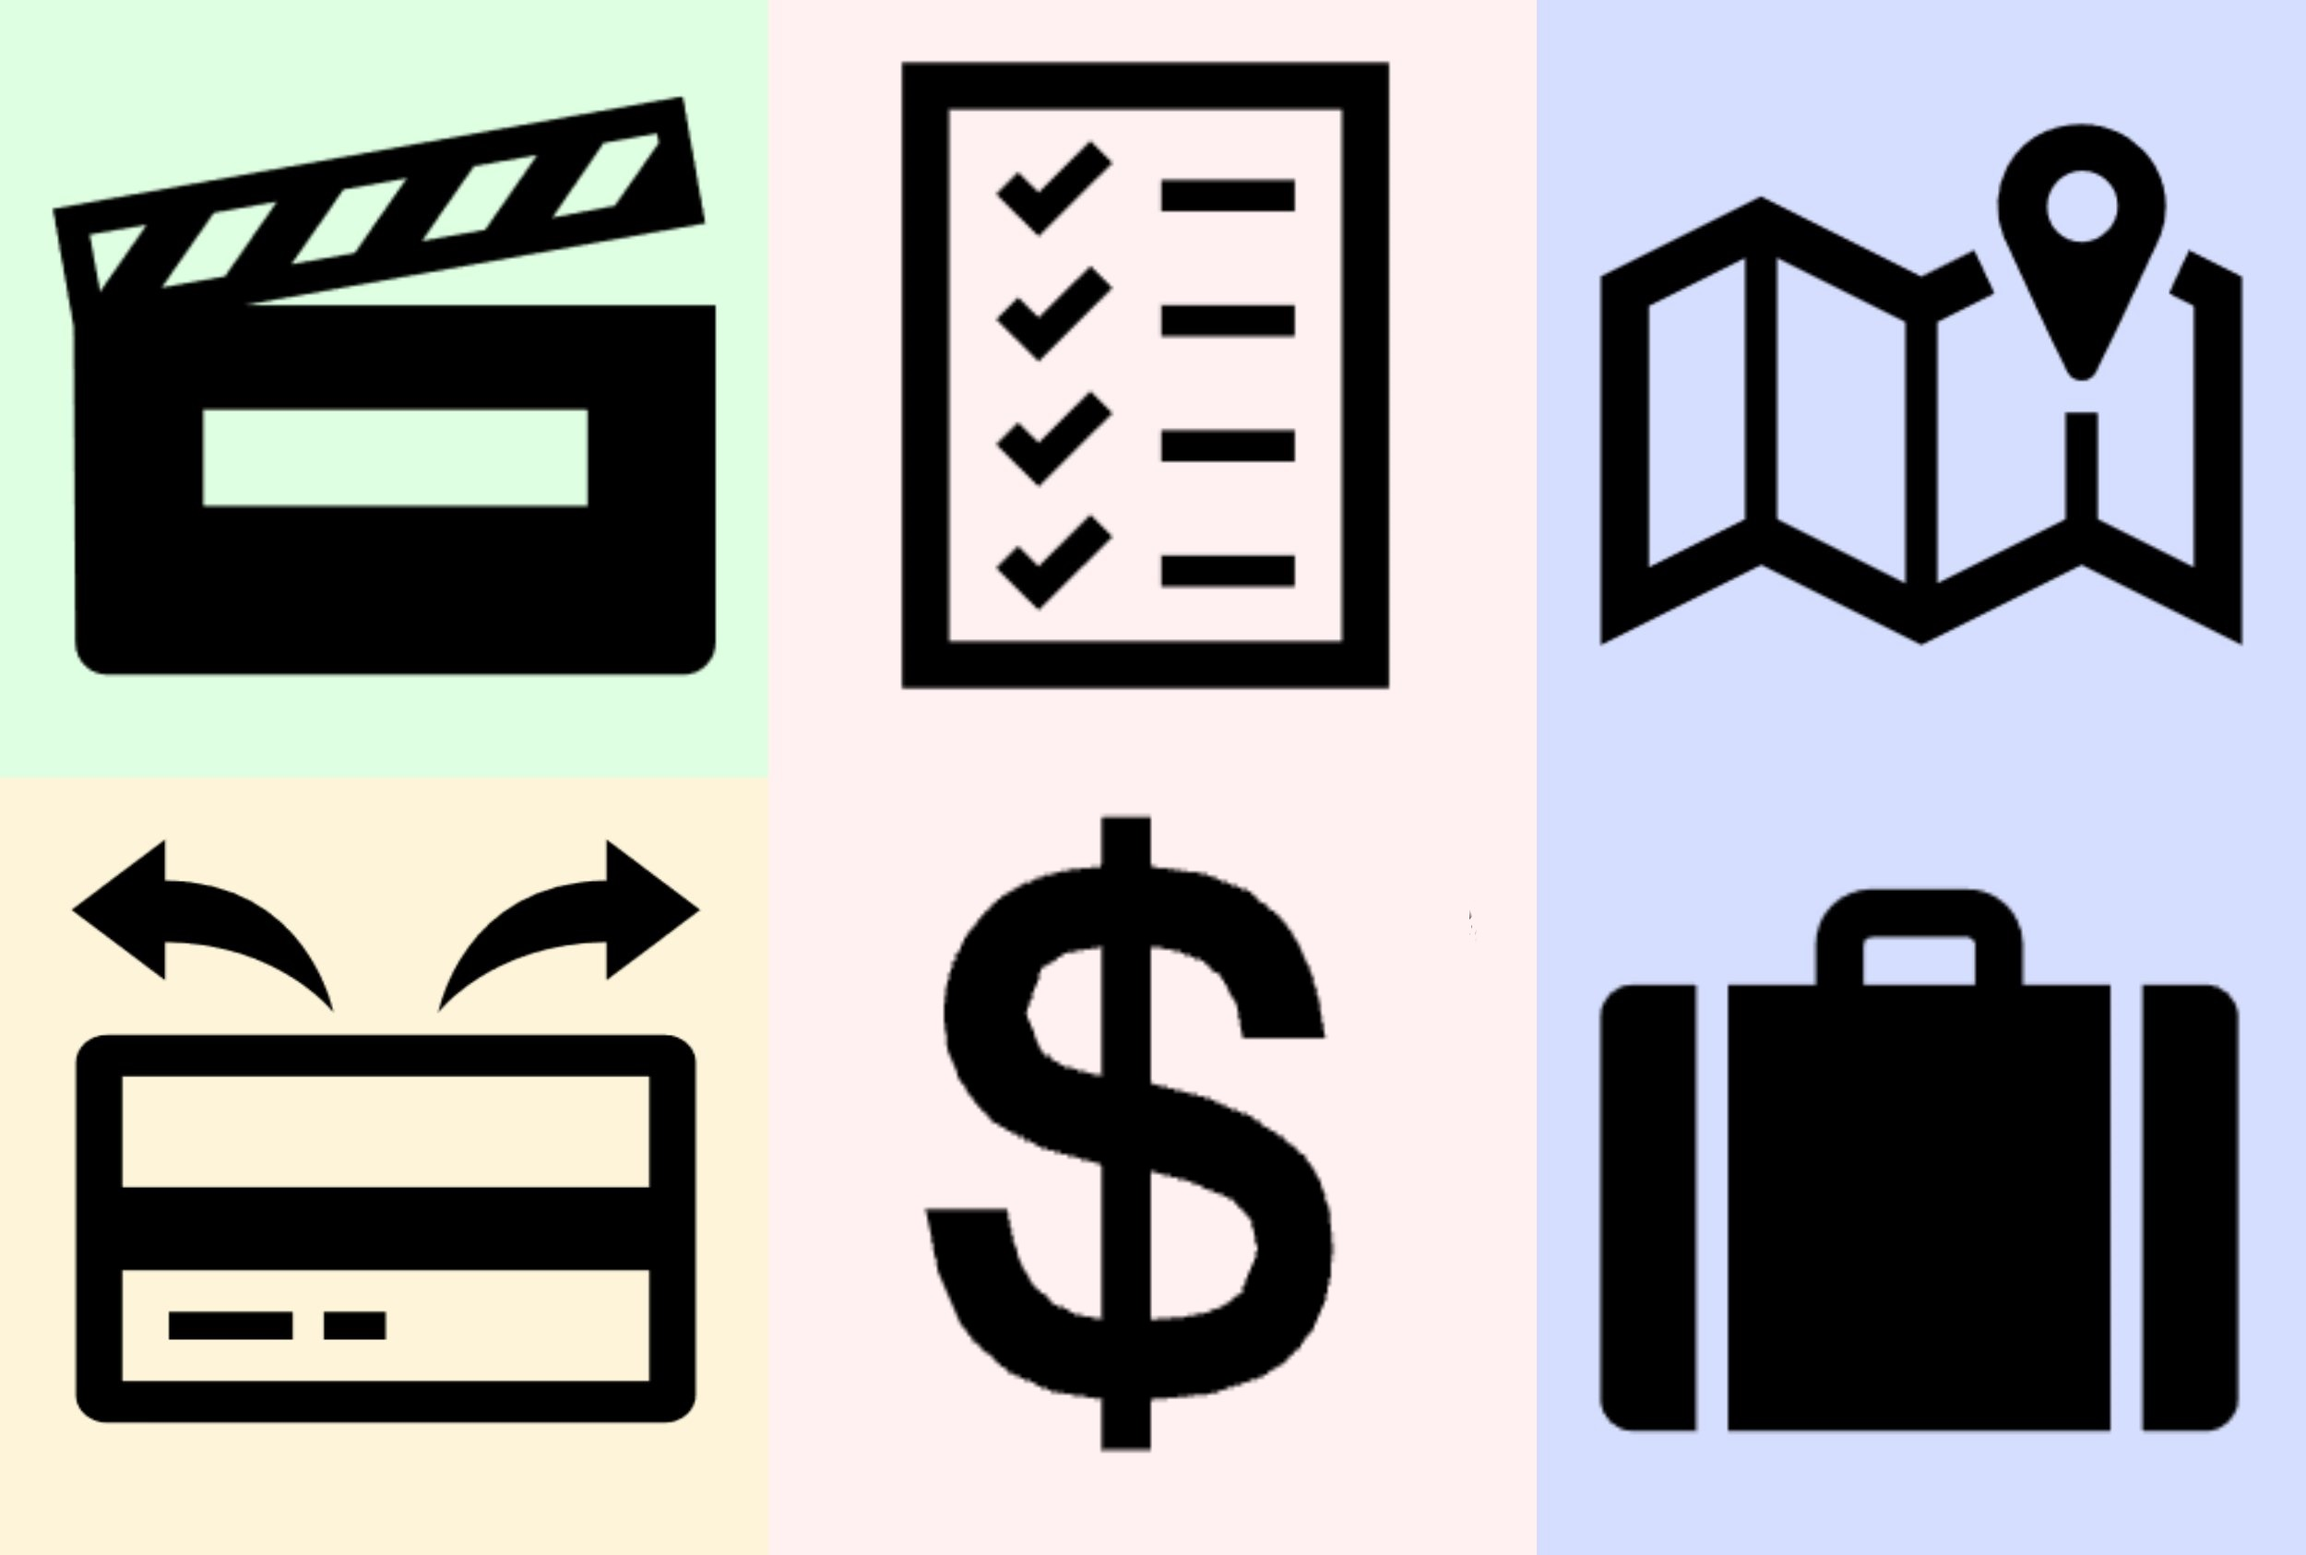
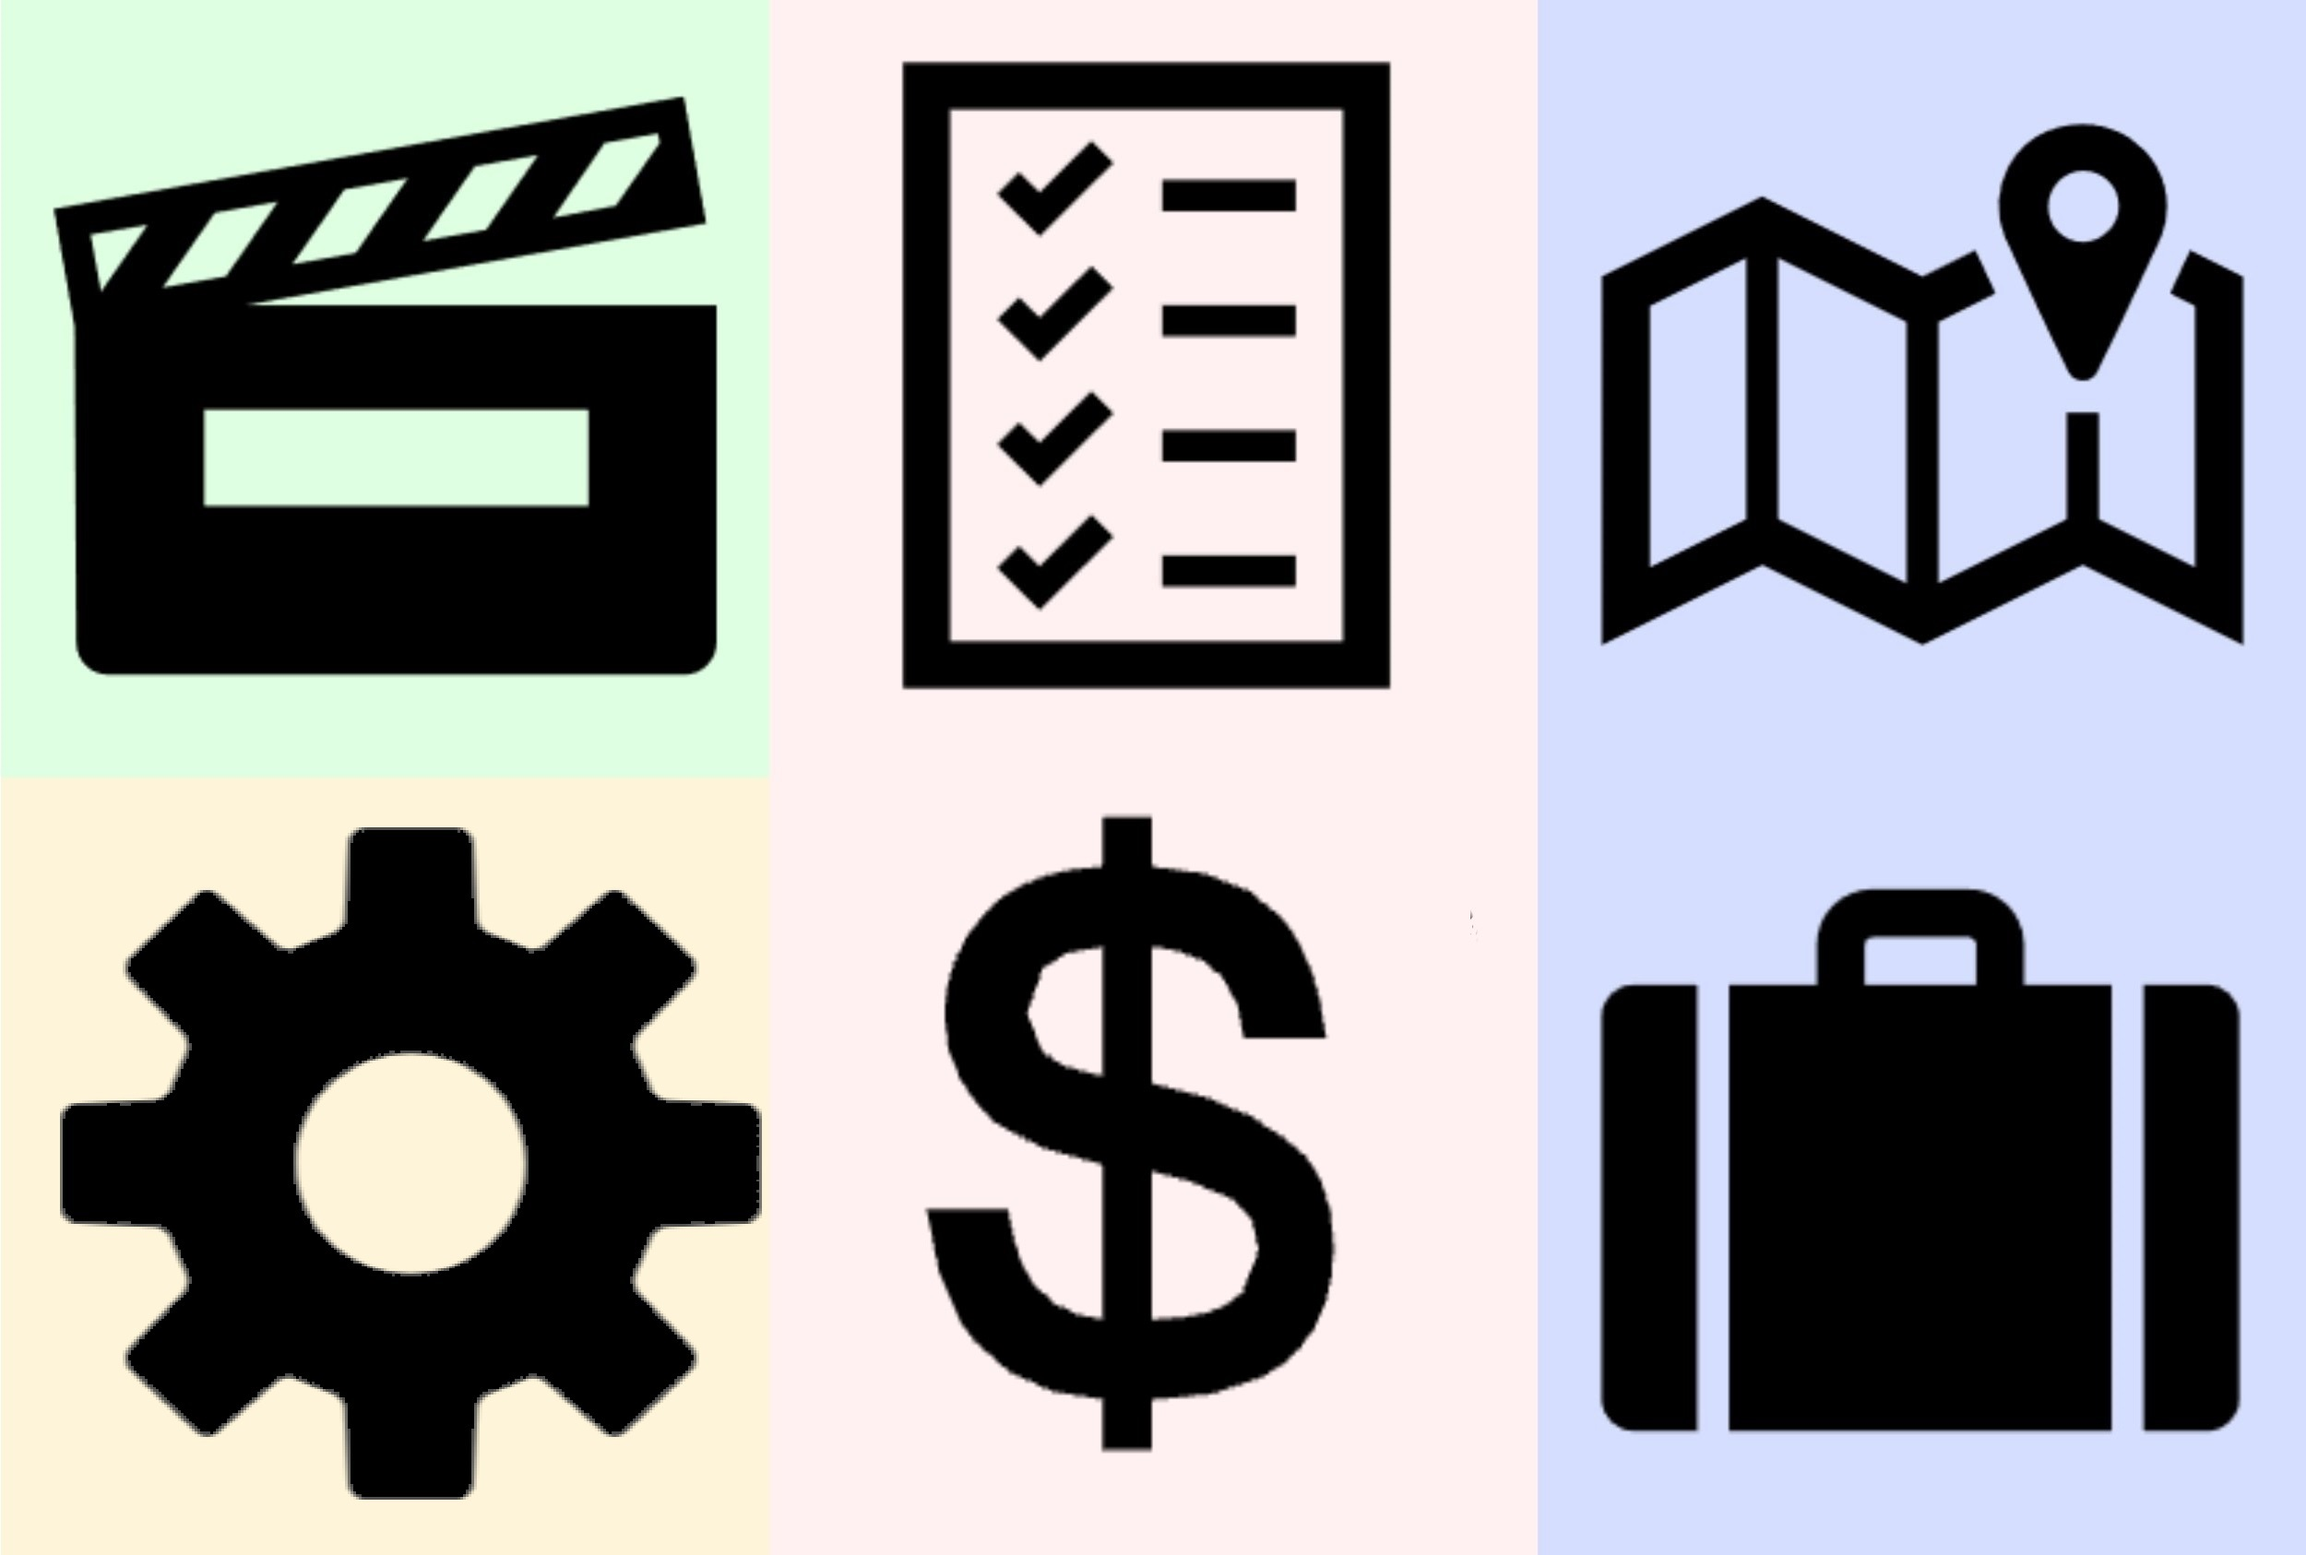
デバッグ画面追加

diff --git a/liff/webpack.config.js b/liff/webpack.config.js
@@ -12,7 +12,8 @@ module.exports = {
     "credit":"./credit/credit.ts",
     //"todo":"./todo/todo.ts",
     "rate":"./ex_rate/rate.ts",
-    "travel": "./travel/travel.ts"
+    "travel": "./travel/travel.ts",
+    "dbg":"./dbg/dbg.ts"
   },
 
   output: {
